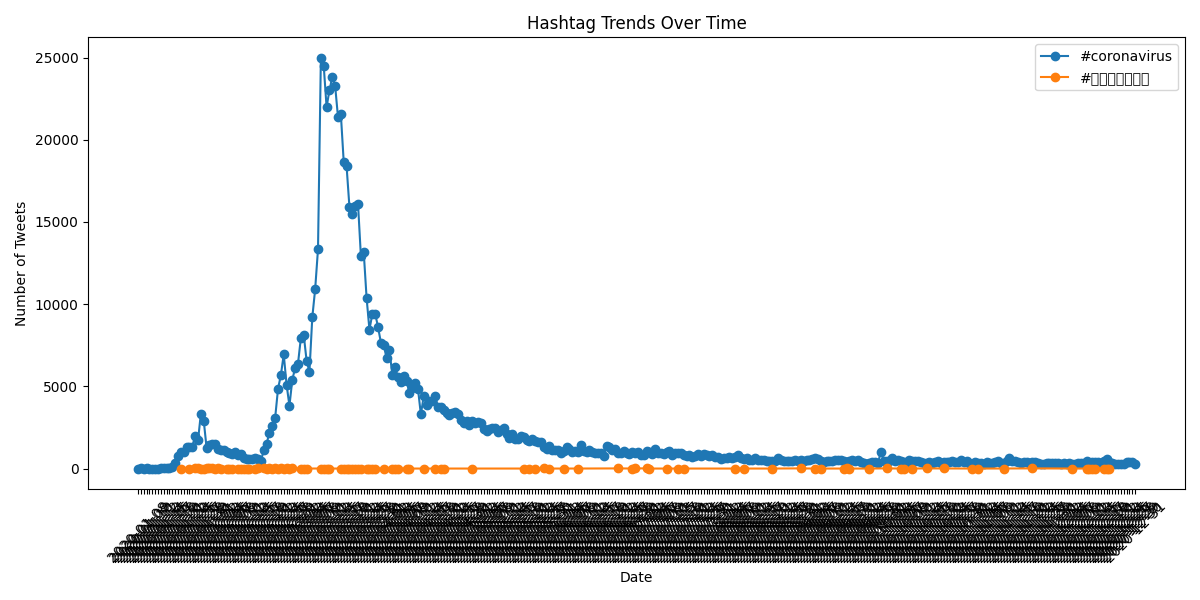
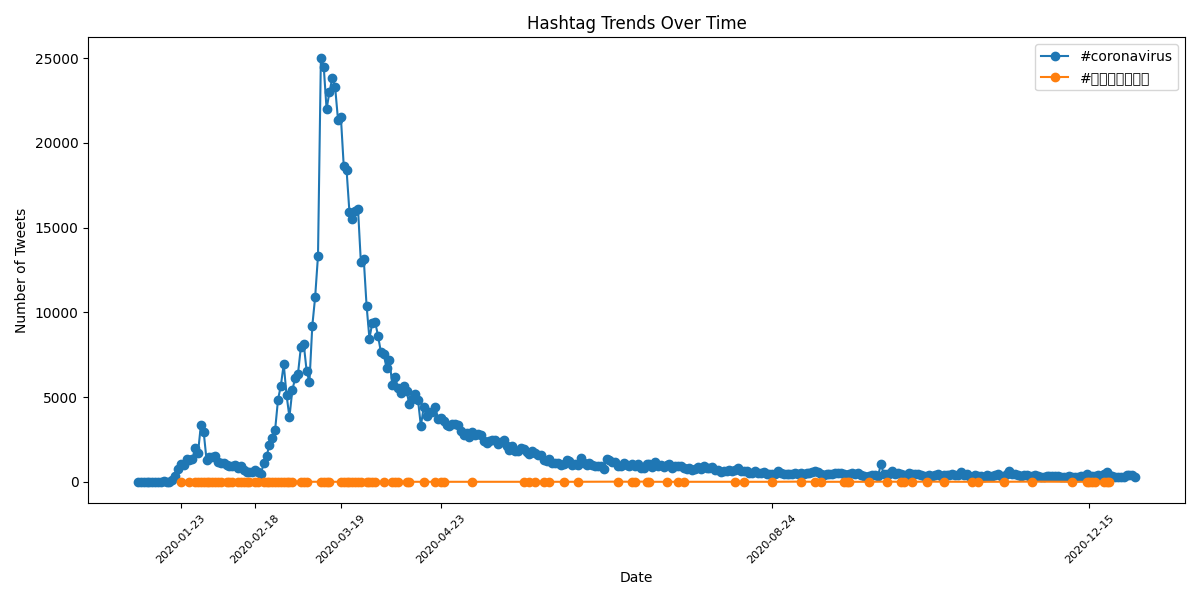
updated visualize

diff --git a/src/alternative_reduce.py b/src/alternative_reduce.py
@@ -50,7 +50,11 @@ for hashtag, counts in hashtag_counts.items():
 plt.xlabel("Date")
 plt.ylabel("Number of Tweets")
 plt.title("Hashtag Trends Over Time")
-plt.xticks(rotation=45)
+plt.xticks(rotation=45, fontsize=8)
+
+#Print label only every 20 dates
+plt.xticks(dates[::20], rotation=45, fontsize=8)
+
 plt.legend()
 plt.tight_layout()
 
